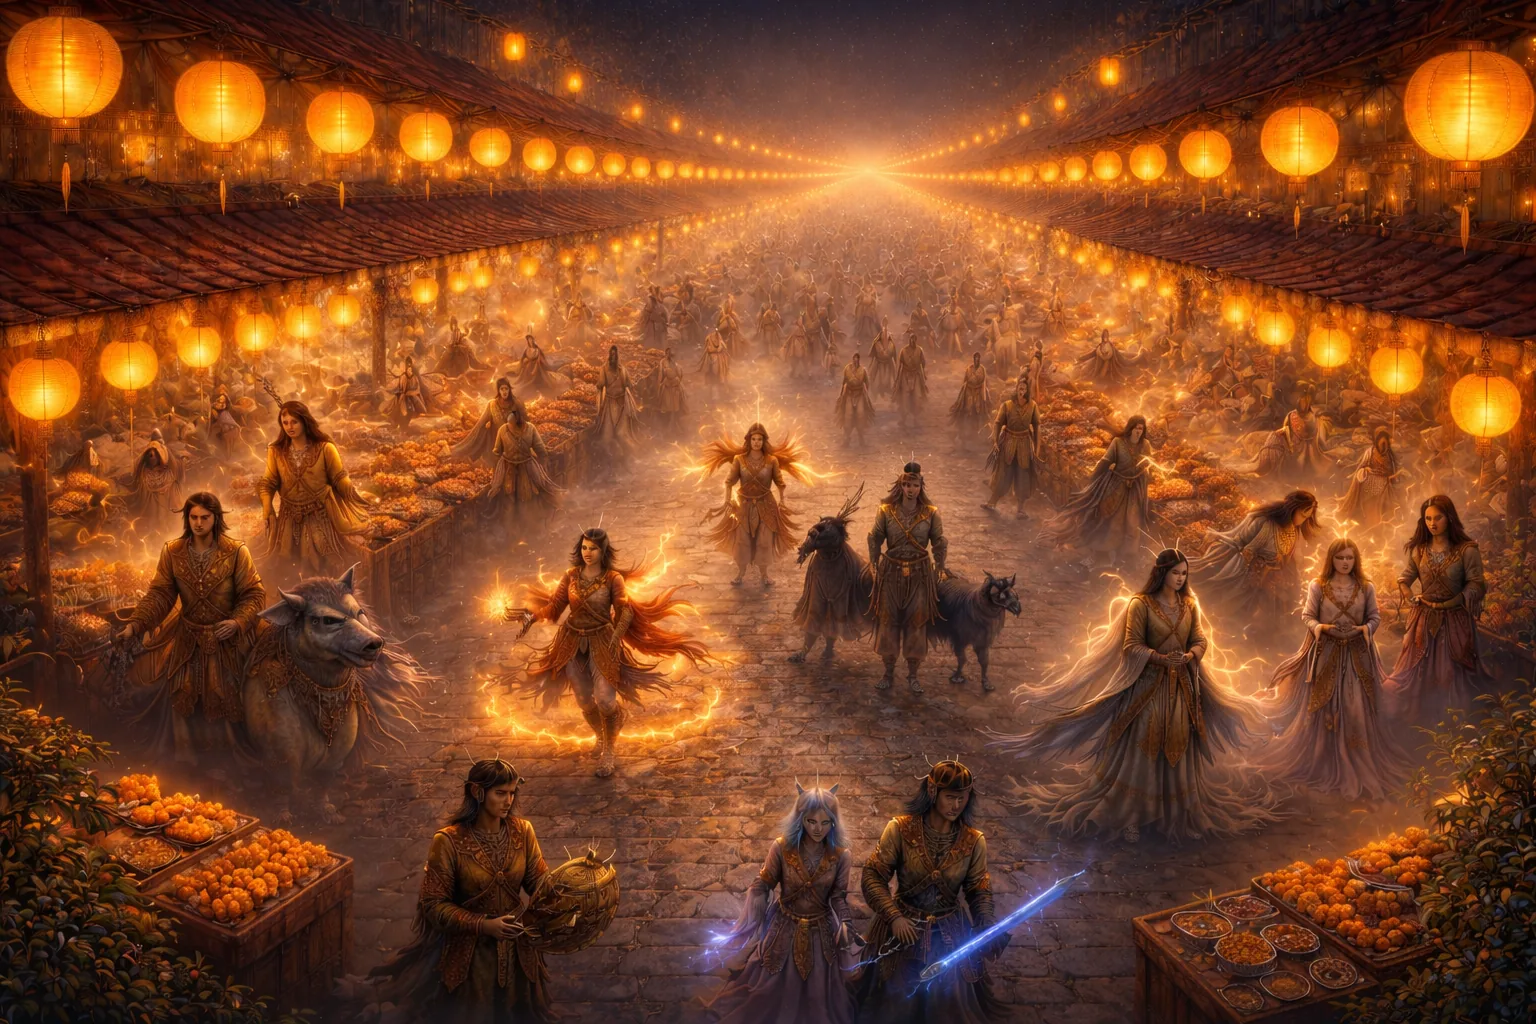
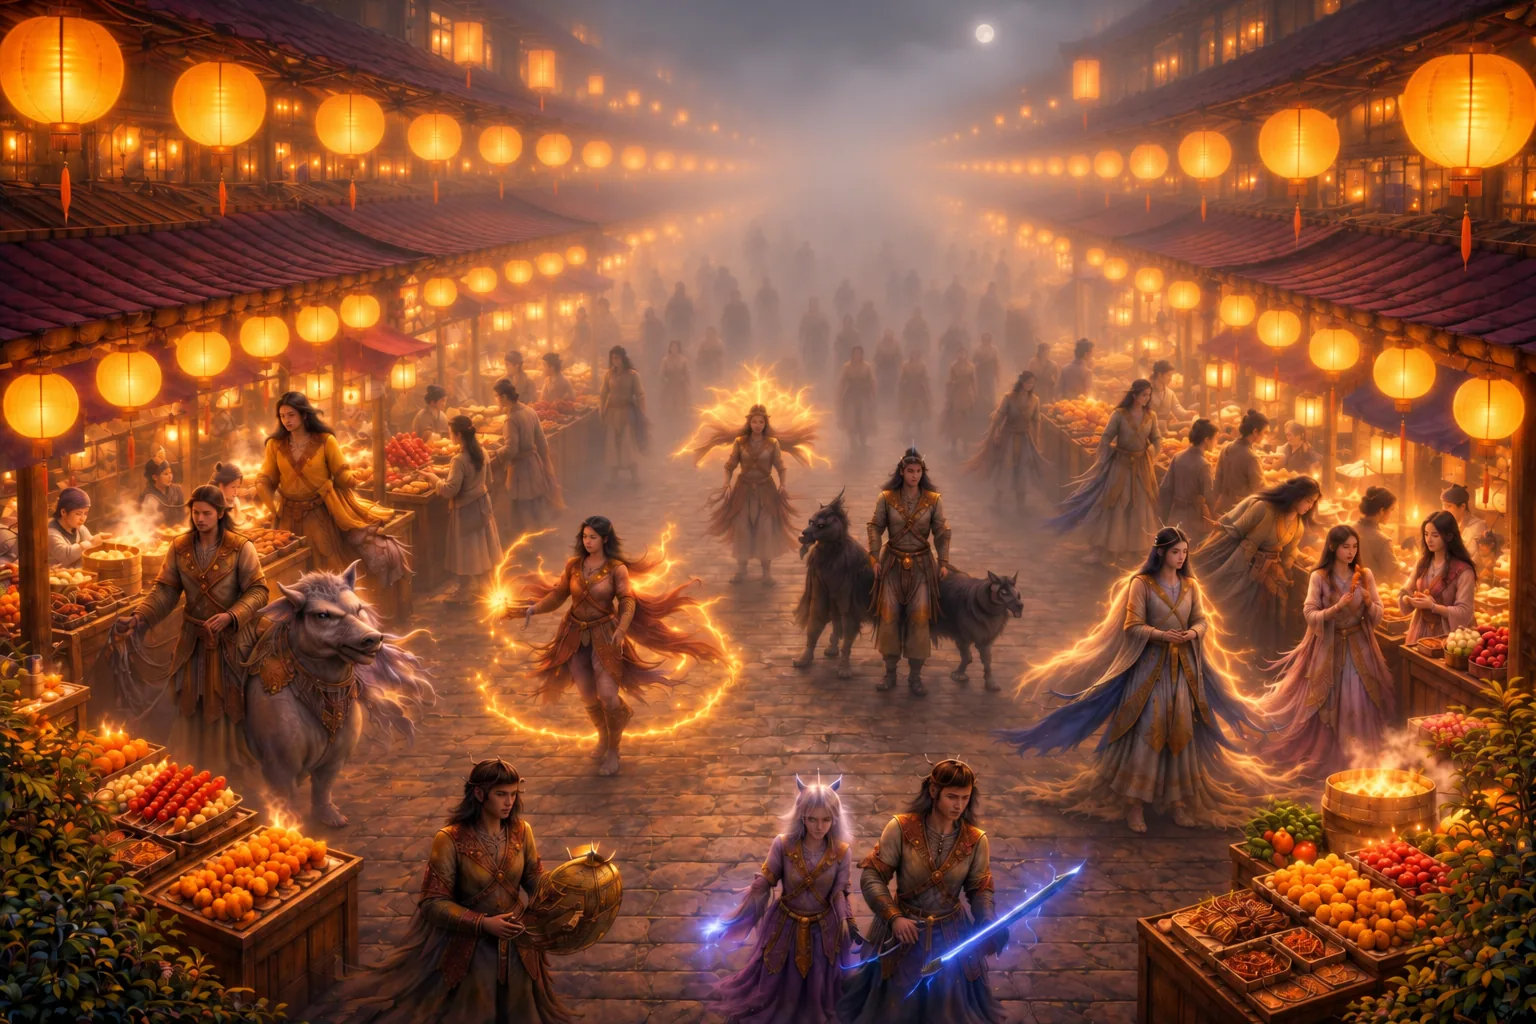
assets: refresh approved Shilin Night Market weather backgrounds

diff --git a/docs/03_qa_release_and_doc_governance.md b/docs/03_qa_release_and_doc_governance.md
@@ -119,6 +119,7 @@
 - 背景定稿前需確認六種天氣都已核准；替換檔須與核准交付檔一致，不得因定稿重新生圖
 - 同一組天氣變體需核對主體比例、屋頂、主要物件與鏡頭位置；格式驗證不能取代逐張視覺審查
 - 美麗華六種天氣須維持同一夜景主體與可辨識的摩天輪、`Miramar` 招牌；白天使用服務仍顯示夜景是已核准的固定風格，不視為氣象對應錯誤
+- 士林夜市六種天氣須維持同一夜景街道透視、木造攤鋪、暖金燈籠與主要奇幻人物及法寶配置；不新增招牌文字，天空閃電須與固定法寶光效區分，夜景不隨使用服務的時段切換
 - 側邊欄 ChatGPT 的引擎與生成品質僅能依介面可驗證資訊記錄，不能把本機 WebP quality 當成生圖品質
 - 替換既有景點時核對六個 canonical 路徑、manifest 中英對應與同區同天氣抽選；其他景點與未授權資料不可連帶修改
 - `codex/initial-mvp` 推送會自動部署 GitHub Pages；發布前需取得使用者對此部署影響的授權，不能把一般 GitHub 同步當成純備份

diff --git a/docs/00_product_principles_and_scope.md b/docs/00_product_principles_and_scope.md
@@ -261,6 +261,7 @@
 - 台北市士林區 / 芝山巖惠濟宮六種正式天氣背景已納入正式背景庫
 - 惠濟宮六款圖於 `2026-10-07` 更新為使用者核准的 ChatGPT 晴天 v1 母版與同批五種天氣變體；保留山腰金瓦廟宇、長石階、雕欄燈柱、仙俠人群與青藍靈脈，六款維持白天，沿用原 canonical 路徑與抽選規則
 - 台北市士林區 / 士林夜市六種正式天氣背景已納入正式背景庫
+- 士林夜市六款圖於 `2026-10-07` 更新為使用者核准的 ChatGPT 晴朗夜景 v1 母版與同批五種天氣變體；保留木造市集、暖金燈籠、中西奇幻人物與法寶光效，六款固定夜景，沿用原 canonical 路徑與抽選規則
 - 同天候多場景輪替
 - RestaurantRecord 與 fallback snapshot 已擴充 `city` / `district`
 - location-aware 候選池已啟用

diff --git a/docs/02_mvp_experience_and_gameplay_spec.md b/docs/02_mvp_experience_and_gameplay_spec.md
@@ -303,7 +303,7 @@ Reduced motion：
 ### 背景 runtime 規則
 
 - 正式背景 runtime 路徑固定為 `images/backgrounds/<city>/<district>/`
-- 美麗華百樂園摩天輪六種天氣固定使用已核准的夜景版本，白天開啟服務也顯示夜景；不新增日夜判斷，`clear-cloudy` 僅代表晴到多雲的天氣，不代表白天
+- 美麗華百樂園摩天輪與士林夜市六種天氣固定使用已核准的夜景版本，白天開啟服務也顯示夜景；不新增日夜判斷，`clear-cloudy` 僅代表晴到多雲的天氣，不代表白天
 - `scene-line` 只以「當前背景地標 + 天氣狀態」組成
 - 同一行政區若同一種天氣下有多張正式景點圖，應從該天氣可用景點池中隨機抽取
 - 未命中 district 級正式圖時，回退到 `images/backgrounds/shared/` 的共享奇幻背景
